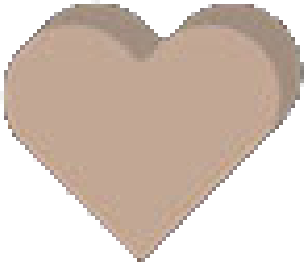
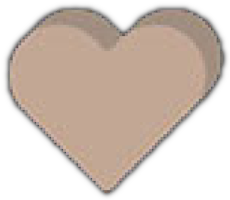
Improve PrestigeTrackLocator & PrestigeMarkerDescription

Changed region(s): [[0.0, 0.0, 1.0, 1.0], [0.487, 0.18, 0.5174, 0.21], [0.4565, 0.24, 0.487, 0.27]]

diff --git a/app/src/locators/Locators.ts b/app/src/locators/Locators.ts
@@ -13,7 +13,7 @@ import { lawsuitPieceSpotLocator } from './board/LawsuitPieceSpotLocator'
 import { lawsuitSpaceLocator } from './board/LawsuitSpaceLocator'
 import { lawsuitStackLocator } from './board/LawsuitStackLocator'
 import { letterDeckLocator } from './board/LetterDeckLocator'
-import { prestigeMarkerPisteLocator } from './board/PrestigeMarkerPisteLocator'
+import { prestigeTrackLocator } from './board/PrestigeTrackLocator'
 import { productPilesLocator } from './board/ProductPilesLocator'
 import { shipSpaceLocator } from './board/ShipSpaceLocator'
 import { shipStackLocator } from './board/ShipStackLocator'
@@ -41,7 +41,7 @@ export const Locators: Partial<Record<LocationType, Locator<City, MaterialType, 
   [LocationType.LawsuitMarkerSpace]: lawsuitMarkerSpaceLocator,
   [LocationType.AllianceSpace]: allianceSpaceLocator,
   [LocationType.InkSpace]: inkSpaceLocator,
-  [LocationType.PrestigeMarkerPiste]: prestigeMarkerPisteLocator,
+  [LocationType.PrestigeTrack]: prestigeTrackLocator,
   [LocationType.GameOverviewPlace]: gameOverviewPlaceLocator,
   [LocationType.ProductPiles]: productPilesLocator,
   [LocationType.LetterDeck]: letterDeckLocator,

diff --git a/rules/src/RivalCitiesSetup.ts b/rules/src/RivalCitiesSetup.ts
@@ -23,7 +23,7 @@ export class RivalCitiesSetup extends MaterialGameSetup<City, MaterialType, Loca
   setupMaterial(options: RivalCitiesOptions) {
     this.material(MaterialType.BellToken).createItem({ location: { type: LocationType.BellTokenSpot } })
     this.material(MaterialType.InkJar).createItem({ location: { type: LocationType.InkSpace, id: 0 } })
-    this.material(MaterialType.PrestigeMarker).createItem({ location: { type: LocationType.PrestigeMarkerPiste, x: 0 } })
+    this.material(MaterialType.PrestigeMarker).createItem({ location: { type: LocationType.PrestigeTrack, x: 0 } })
     this.material(MaterialType.Letter).createItem({ quantity: 12, location: { type: LocationType.LetterDeck } })
     this.material(MaterialType.Factory).createItem({ quantity: 12, location: { type: LocationType.FactoryDeck } })
     this.material(MaterialType.StarToken).createItem({ quantity: 12, location: { type: LocationType.StarTokenDeck } })

diff --git a/app/src/material/PrestigeMarkerDescription.tsx b/app/src/material/PrestigeMarkerDescription.tsx
@@ -10,8 +10,8 @@ import { Trans } from 'react-i18next'
 import PrestigeMarker from '../images/tokens/PrestigeMarker.png'
 
 export class PrestigeMarkerDescription extends TokenDescription {
-  width = 2.1
-  height = 1.8
+  width = 2.3
+  height = 2
 
   menuAlwaysVisible = true
 
@@ -29,7 +29,7 @@ export class PrestigeMarkerDescription extends TokenDescription {
 
   getItemMenu(_item: MaterialItem, context: ItemContext, legalMoves: MaterialMove[]) {
     const advance = legalMoves.find(
-      (move) => isMoveItemType(MaterialType.PrestigeMarker)(move) && move.location.type === LocationType.PrestigeMarkerPiste && move.itemIndex === context.index
+      (move) => isMoveItemType(MaterialType.PrestigeMarker)(move) && move.location.type === LocationType.PrestigeTrack && move.itemIndex === context.index
     )
 
     if (context.displayIndex !== 0) return undefined

diff --git a/rules/src/rules/helper/EndOfGameHelper.ts b/rules/src/rules/helper/EndOfGameHelper.ts
@@ -79,7 +79,7 @@ export class EndOfGameHelper extends PlayerTurnRule {
   }
 
   checkIfPrestigeMarkerIsOnACity(): boolean {
-    const prestigeMarkerLocation = this.material(MaterialType.PrestigeMarker).location(LocationType.PrestigeMarkerPiste).getItem()?.location.x ?? 0
+    const prestigeMarkerLocation = this.material(MaterialType.PrestigeMarker).location(LocationType.PrestigeTrack).getItem()?.location.x ?? 0
     return Math.abs(prestigeMarkerLocation) >= 8
   }
 
@@ -100,7 +100,7 @@ export class EndOfGameHelper extends PlayerTurnRule {
   }
 
   get prestigeMarkerLocation() {
-    return this.material(MaterialType.PrestigeMarker).location(LocationType.PrestigeMarkerPiste).getItem()?.location.x ?? 0
+    return this.material(MaterialType.PrestigeMarker).location(LocationType.PrestigeTrack).getItem()?.location.x ?? 0
   }
 
   get prestigeMarkerStars() {

diff --git a/rules/src/rules/actions/EarnPrestigeRule.ts b/rules/src/rules/actions/EarnPrestigeRule.ts
@@ -16,7 +16,7 @@ export class EarnPrestigeRule extends ActionRule<EarnPrestige> {
 
   getPlayerMoves() {
     const delta = this.playerEarningPrestige === City.Altona ? -1 : 1
-    return [this.material(MaterialType.PrestigeMarker).moveItem((item) => ({ type: LocationType.PrestigeMarkerPiste, x: item.location.x! + delta }))]
+    return [this.material(MaterialType.PrestigeMarker).moveItem((item) => ({ type: LocationType.PrestigeTrack, x: item.location.x! + delta }))]
   }
 
   get playerEarningPrestige() {

diff --git a/app/src/locators/board/PrestigeTrackLocator.ts b/app/src/locators/board/PrestigeTrackLocator.ts
@@ -1,0 +1,14 @@
+import { Locator } from '@gamepark/react-game'
+import { MaterialType } from '@gamepark/rival-cities/material/MaterialType'
+import { Location } from '@gamepark/rules-api'
+
+class PrestigeTrackLocator extends Locator {
+  parentItemType = MaterialType.GameBoard
+  rotateZ = 1
+
+  getPositionOnParent(location: Location) {
+    return { x: 48.5 + location.x! * 5.47, y: 42 + location.x! * 0.05 }
+  }
+}
+
+export const prestigeTrackLocator = new PrestigeTrackLocator()

diff --git a/app/src/history/RivalCitiesLogs.ts b/app/src/history/RivalCitiesLogs.ts
@@ -99,7 +99,7 @@ export class RivalCitiesLogs implements LogDescription {
         player: actionPlayer
       }
     }
-    if (this.getMoveLocationType(move) === LocationType.PrestigeMarkerPiste) {
+    if (this.getMoveLocationType(move) === LocationType.PrestigeTrack) {
       return {
         Component: GainPrestigeHistory,
         player: actionPlayer

diff --git a/rules/src/material/LocationType.ts b/rules/src/material/LocationType.ts
@@ -12,7 +12,7 @@ export enum LocationType {
   LawsuitPieceSpot,
   LawsuitMarkerSpace,
   InkSpace,
-  PrestigeMarkerPiste,
+  PrestigeTrack,
   GameOverviewPlace,
   ProductPiles,
   LetterDeck,
